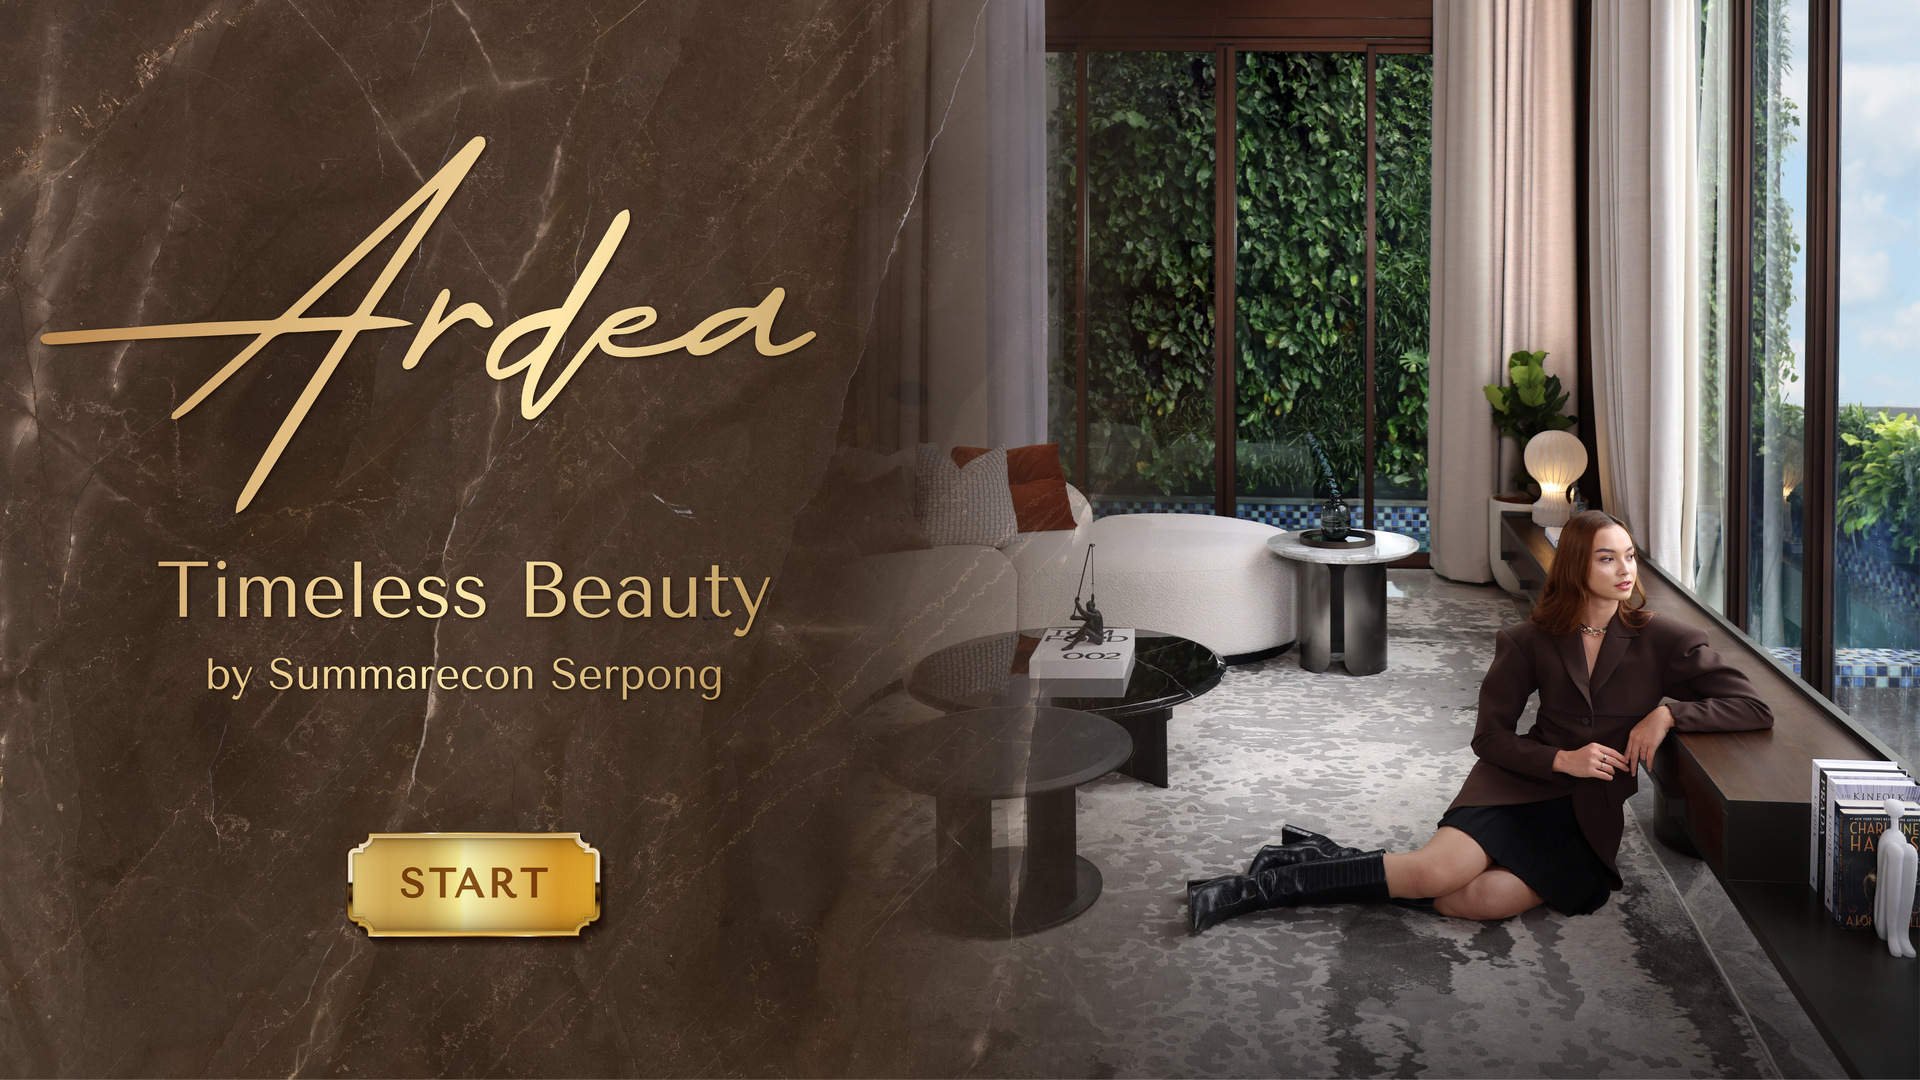
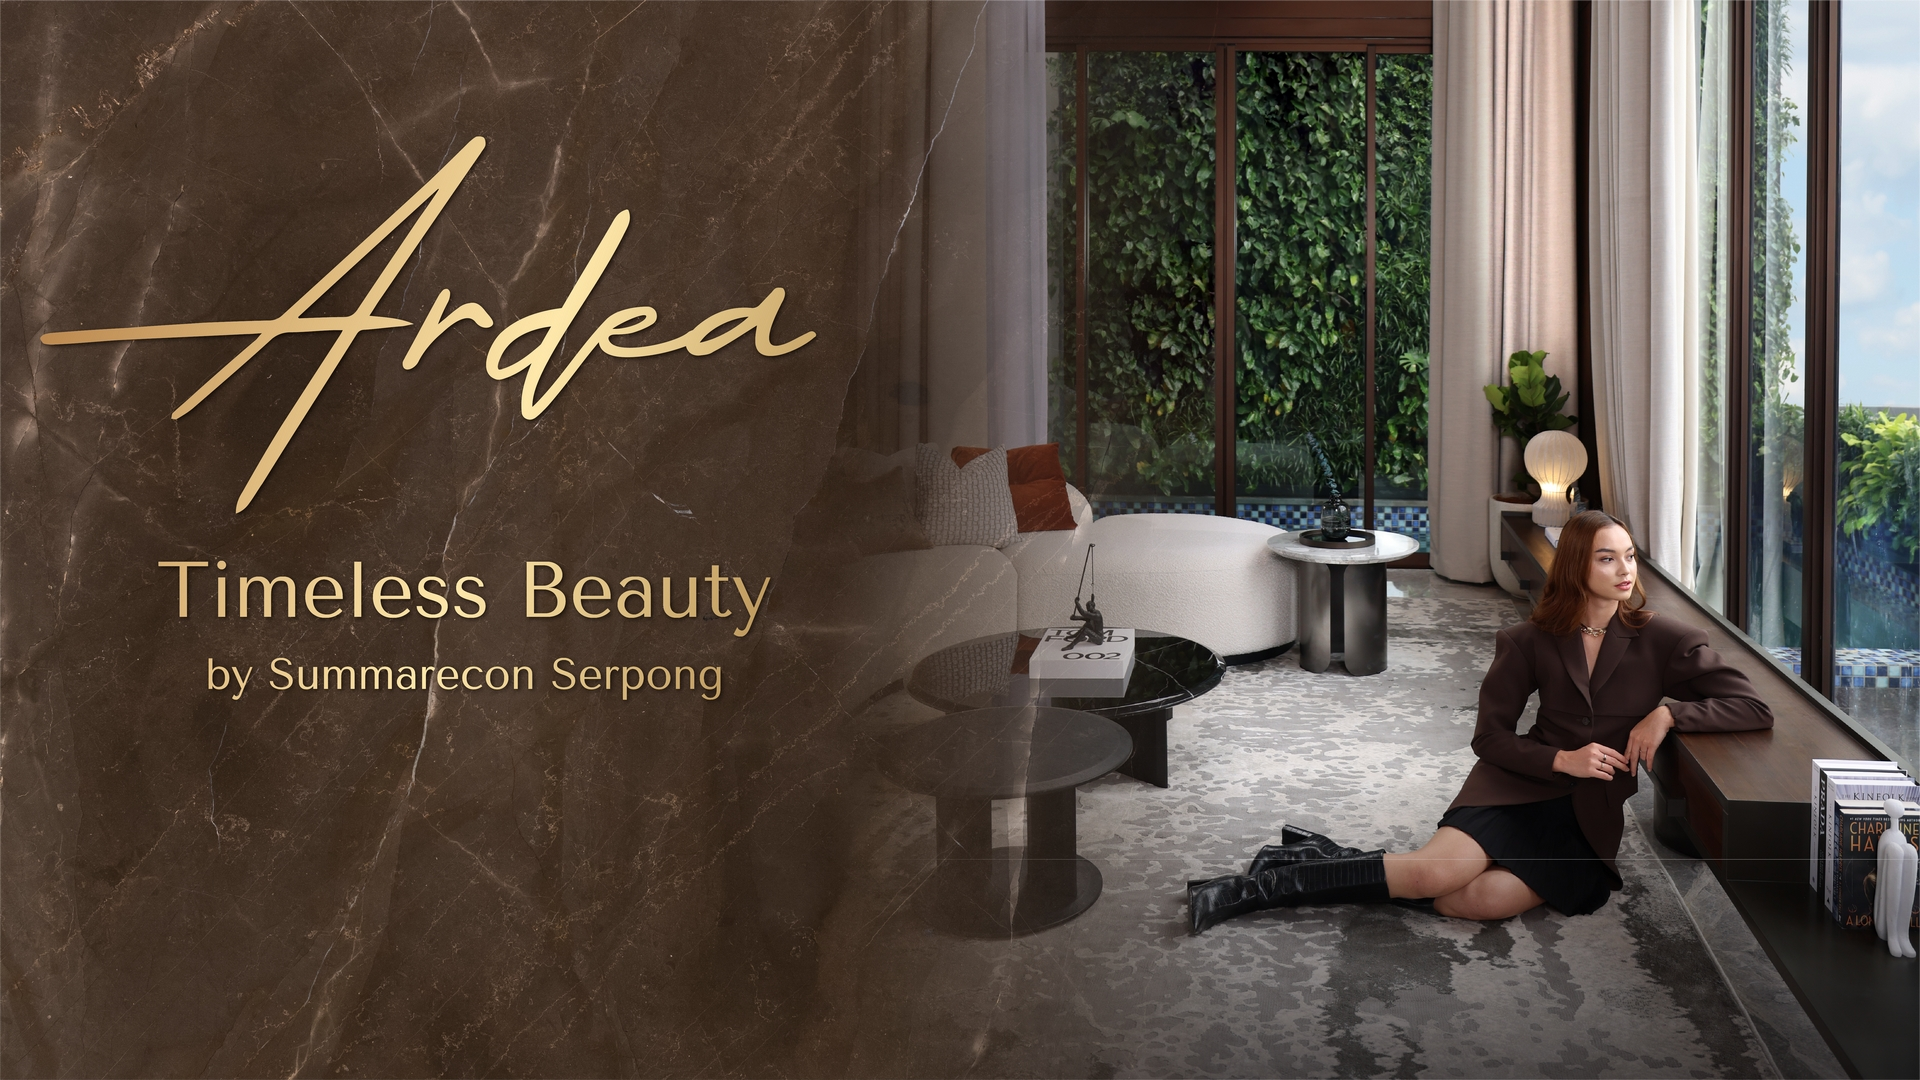
fix::button potongan dan animasi button start

Changed region(s): [[0.1562, 0.7639, 0.3125, 0.8861]]

diff --git a/src/components/ExploreContainer.tsx b/src/components/ExploreContainer.tsx
@@ -1,5 +1,12 @@
 import styled from "@emotion/styled";
-import { IonAlert, IonCol, IonGrid, IonRow, useIonRouter } from "@ionic/react";
+import {
+  IonAlert,
+  IonCol,
+  IonGrid,
+  IonImg,
+  IonRow,
+  useIonRouter,
+} from "@ionic/react";
 import React, { useEffect, useState } from "react";
 import { motion, useAnimation } from "framer-motion";
 
@@ -33,7 +40,6 @@ const ExploreContainer: React.FC<ContainerProps> = () => {
     if (!isFullscreen) {
       setIsOpen(true);
     } else {
-      // Close the alert if isFullscreen is true
       setIsOpen(false);
     }
   }, [isFullscreen]);
@@ -65,6 +71,28 @@ const ExploreContainer: React.FC<ContainerProps> = () => {
     color: "#fff",
   });
 
+  const ImgContainer = styled.div`
+    width: 100%;
+    height: 100%;
+    position: relative;
+    display: grid;
+    place-items: center;
+  `;
+
+  const CenterBottomImg = styled(motion(IonImg))`
+    width: 30%;
+    align-self: end;
+    margin-bottom: 10%; /* Add space on the bottom */
+    margin-left: 20%; /* Add space on the right */
+  `;
+
+  const kuponHoverAnimation = {
+    scale: 1.2,
+    transition: {
+      duration: 0.3,
+    },
+  };
+
   const StyledAlert = styled(IonAlert)(`
     --backdrop-opacity: 80%;
     --background: var(--ion-color-success)
@@ -93,23 +121,16 @@ const ExploreContainer: React.FC<ContainerProps> = () => {
               style={{
                 width: "calc(100vw - 60vw)",
                 height: "100vh",
+                // backgroundColor: "red",
               }}
             >
-              <motion.div
-                style={{
-                  position: "absolute",
-                  bottom: "0",
-                  left: "50%",
-                  height: "50%",
-                  width: "100vh",
-                  transform: "translateX(-50%)",
-                  cursor: "pointer",
-                }}
-                onClick={() => {
-                  router.push("/selection");
-                }}
-                whileTap={{ scale: 0.9 }}
-              ></motion.div>
+              <ImgContainer>
+                <CenterBottomImg
+                  whileHover={kuponHoverAnimation}
+                  src="icon/start.png"
+                  onClick={() => router.push("/selection")}
+                />
+              </ImgContainer>
             </div>
           </ColStyle>
           <ColStyle></ColStyle>

diff --git a/src/components/PotonganMenu/PotonganMenu.tsx b/src/components/PotonganMenu/PotonganMenu.tsx
@@ -1,6 +1,12 @@
 // @flow
 import styled from "@emotion/styled";
-import { IonButton, IonLabel, IonMenu, IonSegment, IonSegmentButton } from "@ionic/react";
+import {
+  IonButton,
+  IonLabel,
+  IonMenu,
+  IonSegment,
+  IonSegmentButton,
+} from "@ionic/react";
 import * as React from "react";
 
 import "./style.css";
@@ -8,23 +14,27 @@ import "./style.css";
 type Props = {};
 export const PotonganMenu = (props: Props) => {
   return (
-
-      <div className="pilih ripple-effect">
-        <IonSegment value={"facade"} mode={"ios"} color="primary" className="potongan">
-          <IonSegmentButton value="facade" id="facade">
-            <IonLabel>Facade</IonLabel>
-          </IonSegmentButton>
-          <IonSegmentButton value="skydeck" id="skydeck">
-            <IonLabel>Skydeck</IonLabel>
-          </IonSegmentButton>
-          <IonSegmentButton value="2nd" id="2nd">
-            <IonLabel>2nd</IonLabel>
-          </IonSegmentButton>
-          <IonSegmentButton value="1st" id="1st">
-            <IonLabel>1st</IonLabel>
-          </IonSegmentButton>
-        </IonSegment>
-        {/* <IonButton size="small" mode="md" id={"id"}>
+    <div className="pilih ripple-effect">
+      <IonSegment
+        value={"facade"}
+        mode={"ios"}
+        color="primary"
+        className="potongan"
+      >
+        <IonSegmentButton value="facade" id="facade">
+          <IonLabel>Facade</IonLabel>
+        </IonSegmentButton>
+        <IonSegmentButton value="3rd" id="skydeck">
+          <IonLabel>3rd</IonLabel>
+        </IonSegmentButton>
+        <IonSegmentButton value="2nd" id="2nd">
+          <IonLabel>2nd</IonLabel>
+        </IonSegmentButton>
+        <IonSegmentButton value="1st" id="1st">
+          <IonLabel>1st</IonLabel>
+        </IonSegmentButton>
+      </IonSegment>
+      {/* <IonButton size="small" mode="md" id={"id"}>
           <IonLabel>1</IonLabel>
         </IonButton>
         <IonButton size="small" mode="md" id={"id"}>
@@ -36,7 +46,6 @@ export const PotonganMenu = (props: Props) => {
         <IonButton size="small" mode="md" id={"id"}>
           <IonLabel>4</IonLabel>
         </IonButton> */}
-      </div>
-
+    </div>
   );
 };

diff --git a/src/components/Denah/style.css b/src/components/Denah/style.css
@@ -3,6 +3,7 @@
     height: 70%;
     margin: 4px;
     padding: 4px;
+    --background: transparant !important;
   }
 
   .segment-btn {
